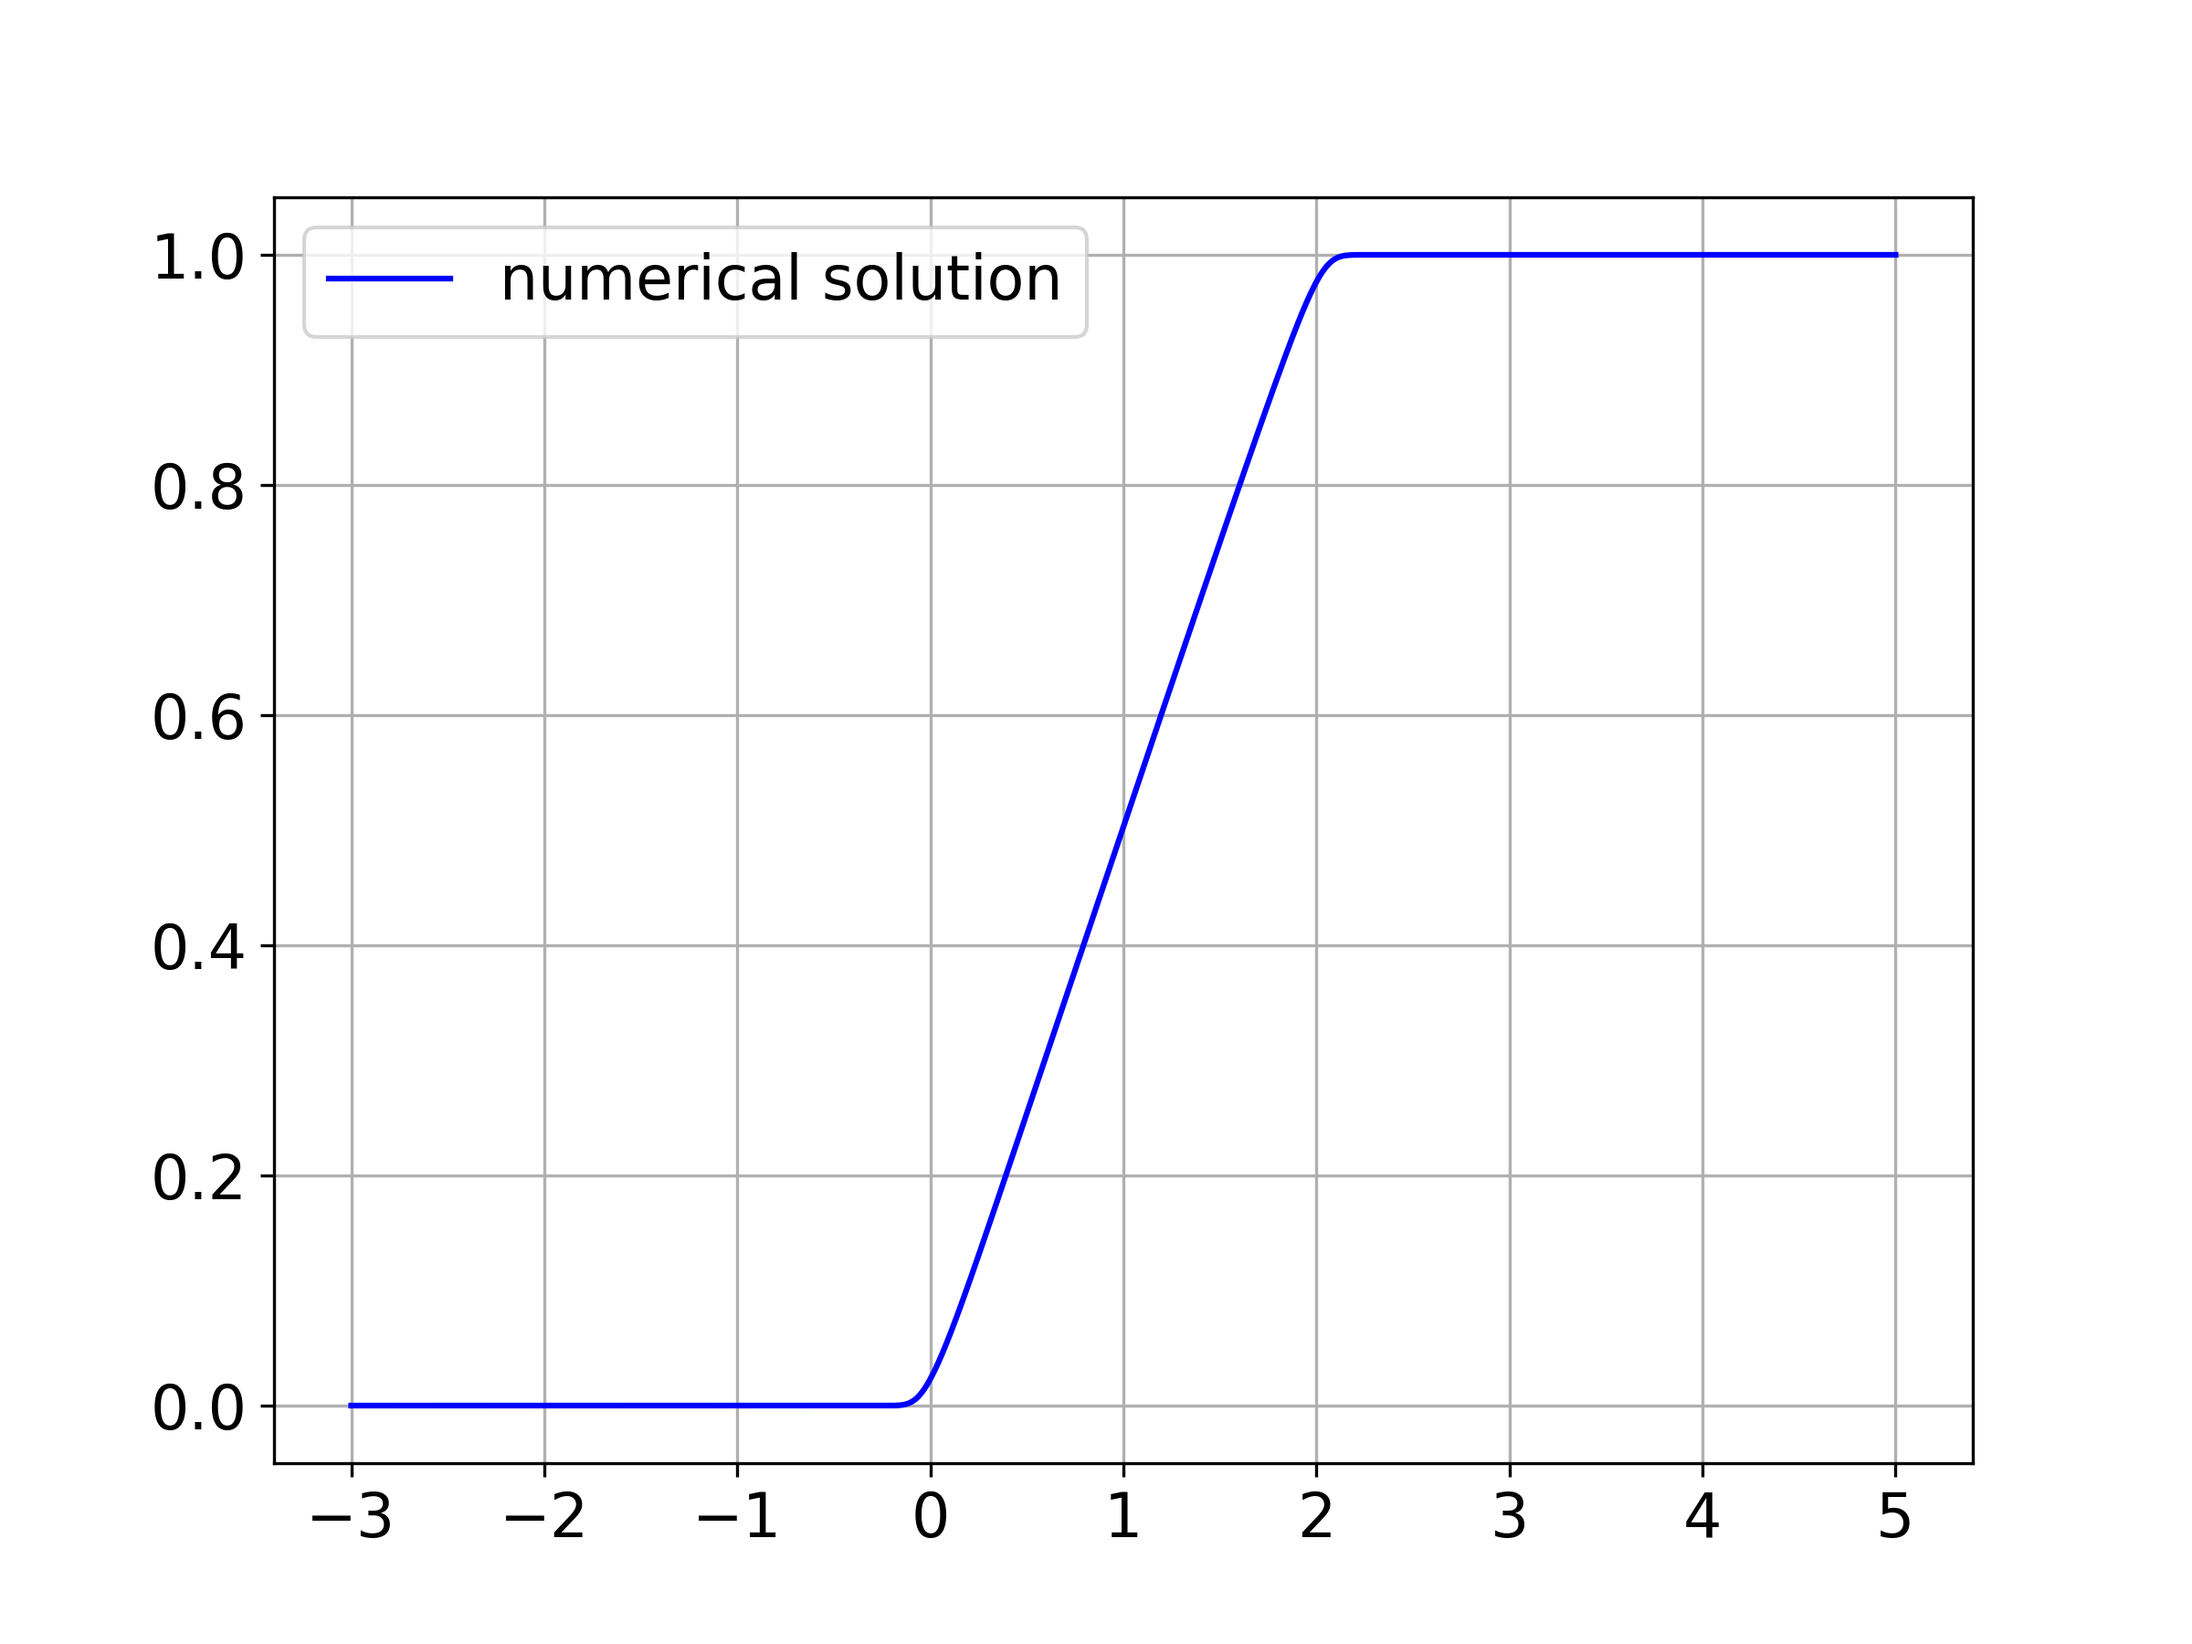
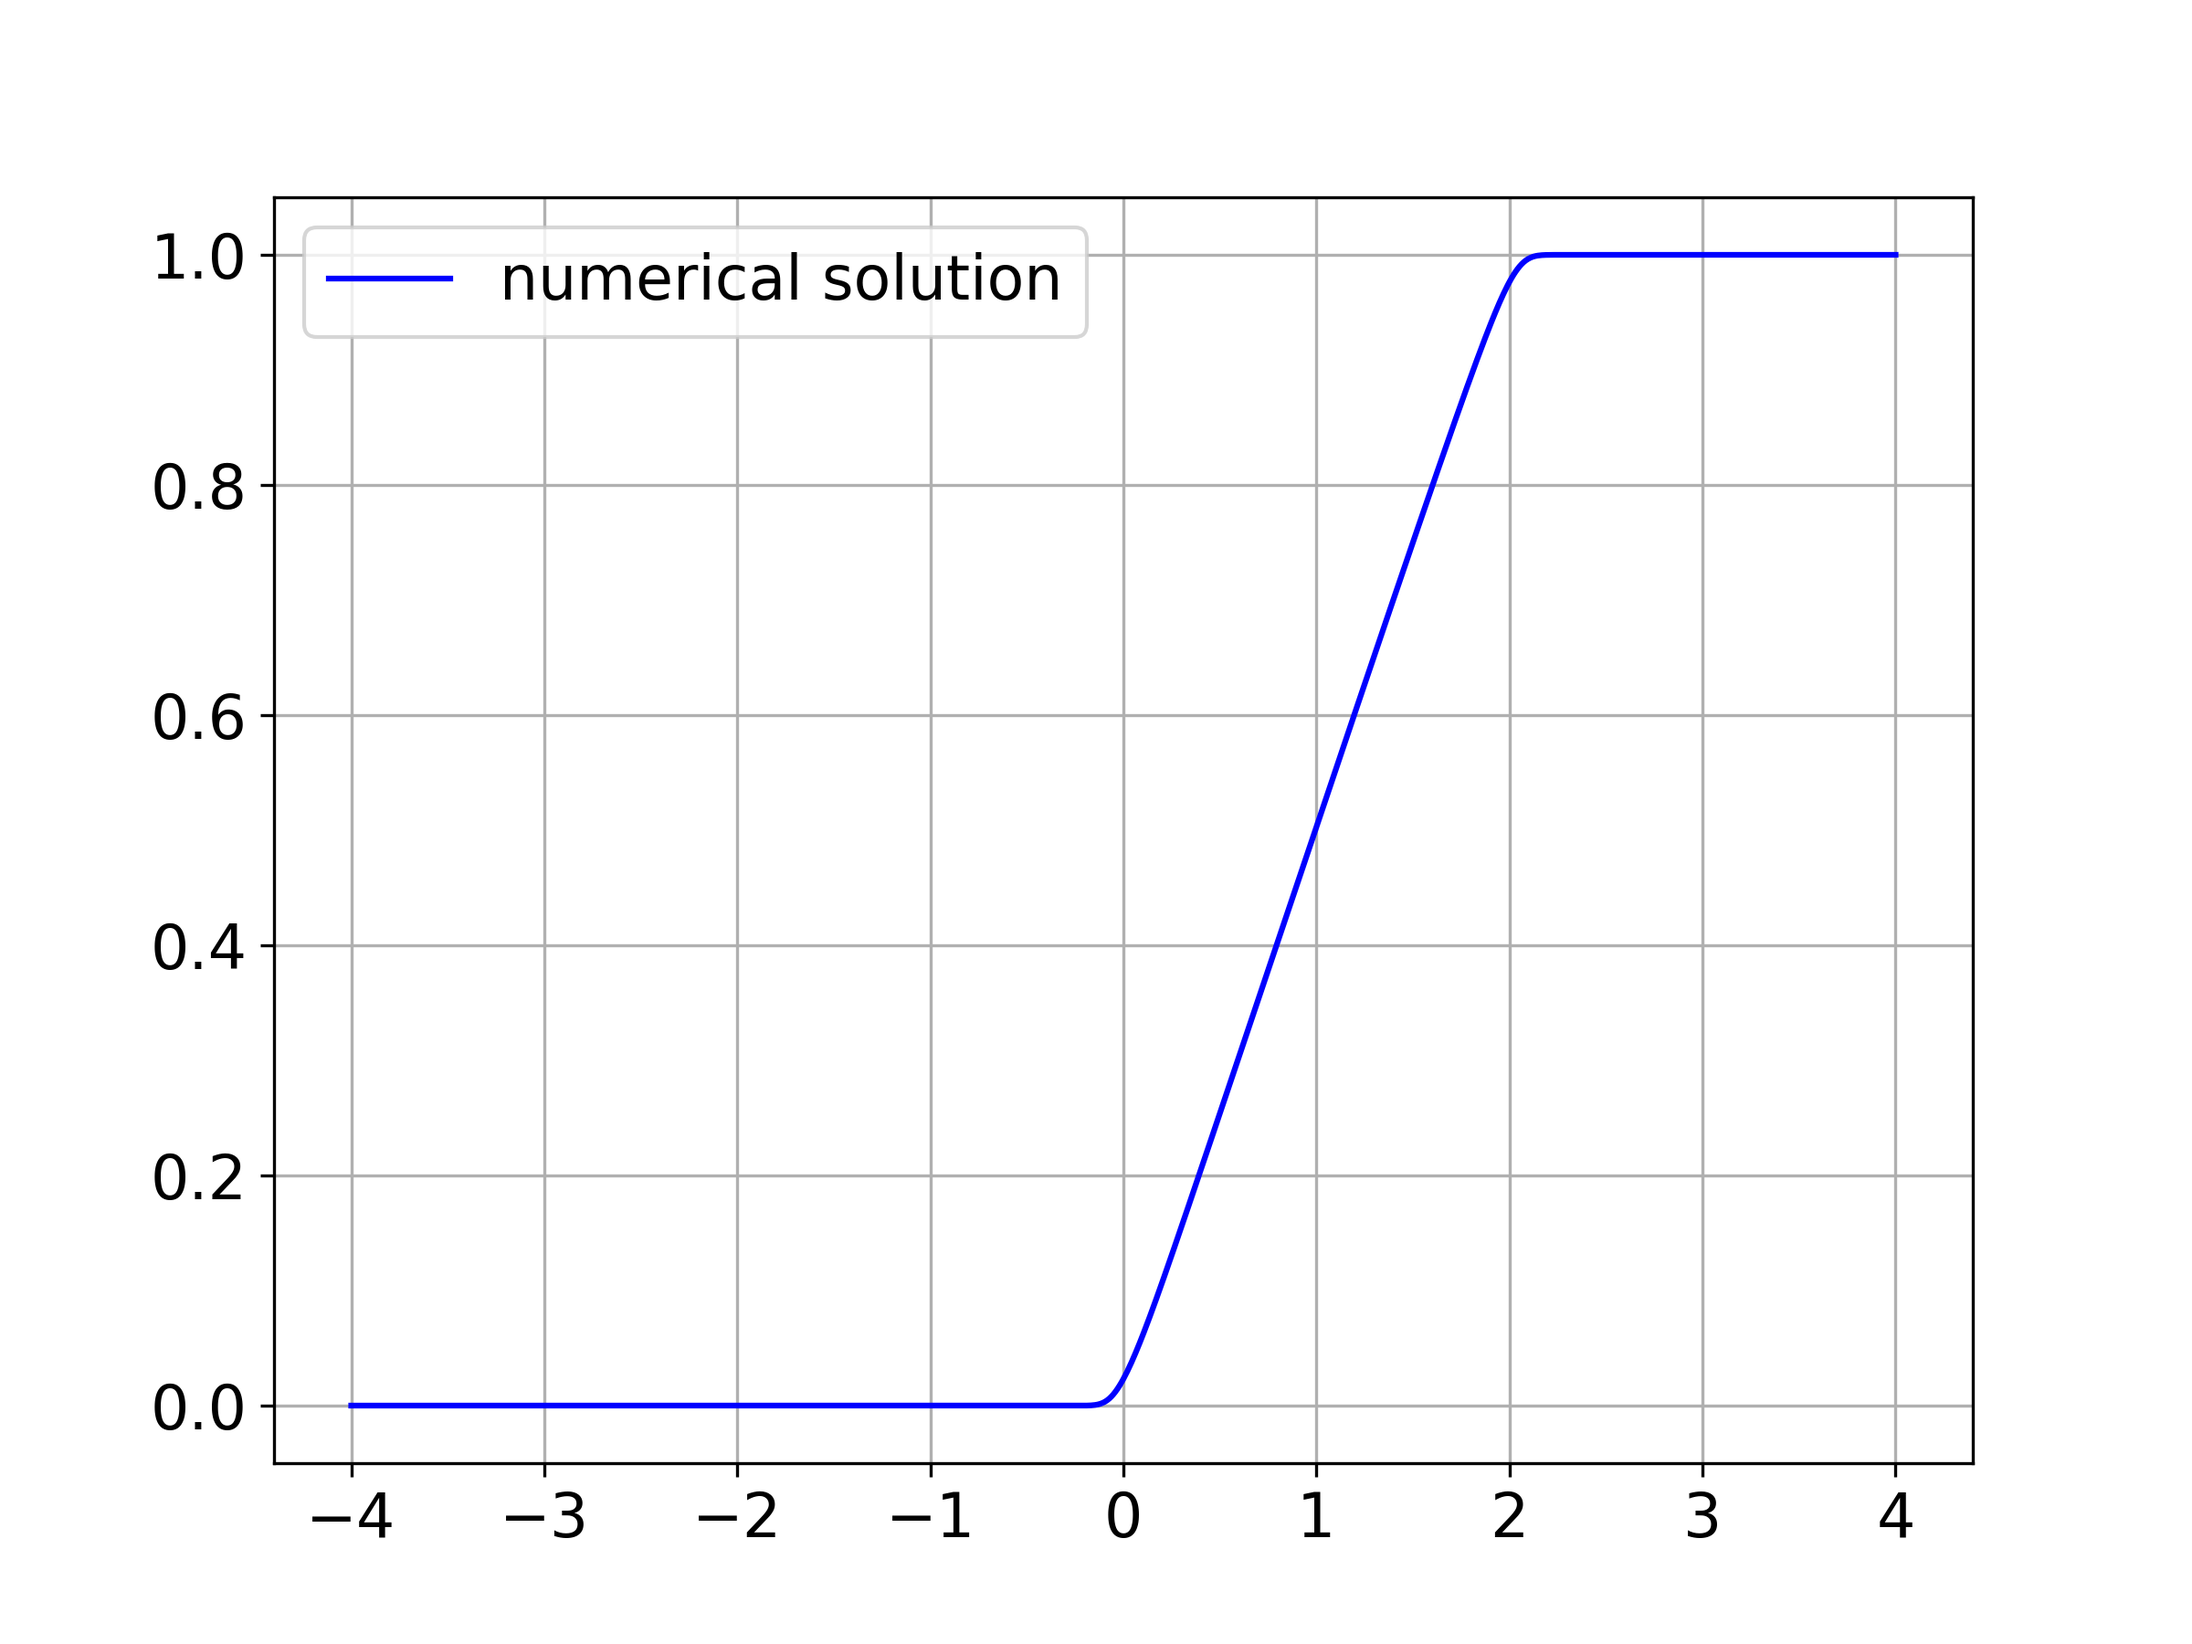
fix the BC apply procedure

diff --git a/lab1/test_Burgers.py b/lab1/test_Burgers.py
@@ -6,8 +6,8 @@ from RHS import RHS
 savepath = "figures/"
     
 ################################################################################
-x_left = -3.0
-x_right = 5.0
+x_left = -4.0
+x_right = 4.0
 N_element = 40
 P = 7
 node_type = "GLL"
@@ -58,11 +58,14 @@ for i_case in range(3):
     for i_step in range(1, nt):
         # print("time step:", i_step, "current time:", t[i_step])
         u_current = RK4_step(RHS_f.RHS_maker, u_current, t[i_step - 1], dt)
+        # implement the BC at the end of each time step (a RK step)
+        u_current = RHS_f.dirichlet_BC_apply(u_current)
 
     ################################################################################
     # the exact solution
     s = (uL + uR)/2.0
-    u_exact = s + (uR-uL)/2.0 * np.tanh((x-s*t[-1])*(uL-uR)/4.0/nu2)
+    # s = 0.0
+    u_exact = (uL + uR)/2.0 + (uR-uL)/2.0 * np.tanh((x-s*t_end)*(uL-uR)/4.0/nu2)
 
     ################################################################################
     # refine the results by spectral interpolation
@@ -74,8 +77,10 @@ for i_case in range(3):
     x_fine = x @ phi.T
     u_fine = u_current @ phi.T
 
-    # u_exact_fine = u_exact @ phi.T
-    u_exact_fine = s + (uR-uL)/2.0 * np.tanh((x_fine-s*t[-1])*(uL-uR)/4.0/nu2)
+    u_exact_fine = (uL + uR)/2.0 + (uR-uL)/2.0 * np.tanh((x_fine-s*t_end)*(uL-uR)/4.0/nu2)
+    # check for a heat equation
+    # from scipy.special import erfc
+    # u_exact_fine = 1.0/2.0 * erfc(x_fine/2/np.sqrt(nu2*t_end))
     ################################################################################
     # plot
     import matplotlib.pyplot as plt

diff --git a/lab1/FEM.py b/lab1/FEM.py
@@ -82,9 +82,8 @@ class FEM_space:
         return u_discontinuous
 
     # Compute the flux function on element basis
-    def dfluxdx_weak_compute_1d(self, u, nu2, BC_dirichlet):
-        u[0,0] = BC_dirichlet[0]
-        u[-1,-1] = BC_dirichlet[-1]
+    def dfluxdx_weak_compute_1d(self, u, nu2):
+
         # Here the advection term computation does not include the de-aliasing
         adv = u * u / 2.0
         diff = nu2 * (self.conv(self.D, u)) * self.mesh["Jinv"]
@@ -95,11 +94,11 @@ class FEM_space:
         integral_volume = self.gs_add(integral_volume)
      
         dfluxdx_weak =  - integral_volume
-        # Dirichlet BC
-        flux_L = flux[0,0]
-        flux_R = flux[-1,-1]
-        dfluxdx_weak[0,0] += -flux_L
-        dfluxdx_weak[-1,-1] += flux_R
+        
+        # flux_L = ...
+        # flux_R = ...
+        # dfluxdx_weak[0,0] += -flux_L
+        # dfluxdx_weak[-1,-1] += flux_R
 
         return dfluxdx_weak
 

diff --git a/lab1/RHS.py b/lab1/RHS.py
@@ -5,10 +5,17 @@ class RHS:
         self.BC_dirichlet = BC_dirichlet
         
     def RHS_maker(self, u, t): # t is a dummy argument for the moment
-        dudt = -self.Xh.dfluxdx_weak_compute_1d(u, self.nu2, \
-                                                self.BC_dirichlet)\
+        # impose the BC 
+        # since the input in the RK substeps is not the field anymore
+        u = self.dirichlet_BC_apply(u) 
+        dudt = -self.Xh.dfluxdx_weak_compute_1d(u, self.nu2)\
                /self.Xh.mesh["B"]
-        # dudt = self.Xh.avgC0(dudt)
-        # dudt[0,0] = 1.0
-        # dudt[-1,-1] = 0.0
+        # impose the BC at the end of each RK substep
+        u = self.dirichlet_BC_apply(u)
         return dudt
+    
+    def dirichlet_BC_apply(self, u): # apply a Dirichlet BC
+        # Dirichlet BC
+        u[0,0] = self.BC_dirichlet[0]
+        u[-1,-1] = self.BC_dirichlet[-1]
+        return u
